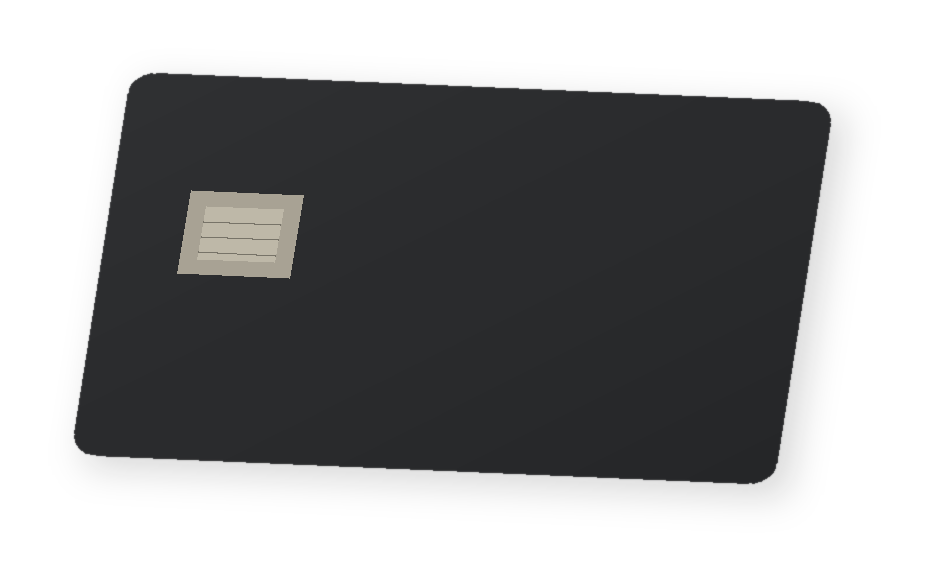
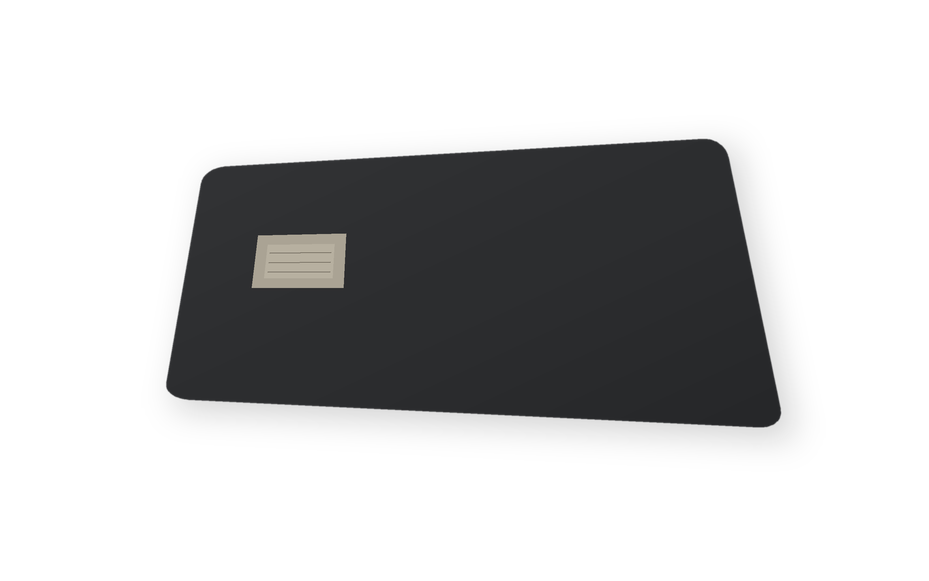
Replace the card art with a cutout that has no photographic background.
Keeps the account picture reading as object, not scene, so the landing stays quiet.

Changed region(s): [[0.0624, 0.1239, 0.9053, 0.8675]]

diff --git a/src/lib/pictures.ts b/src/lib/pictures.ts
@@ -2,7 +2,7 @@ export const PICTURES = [
   {
     id: "card",
     src: "/images/card.png",
-    alt: "A matte charcoal card on warm stone",
+    alt: "A matte charcoal debit card",
     label: "Card",
   },
   {
